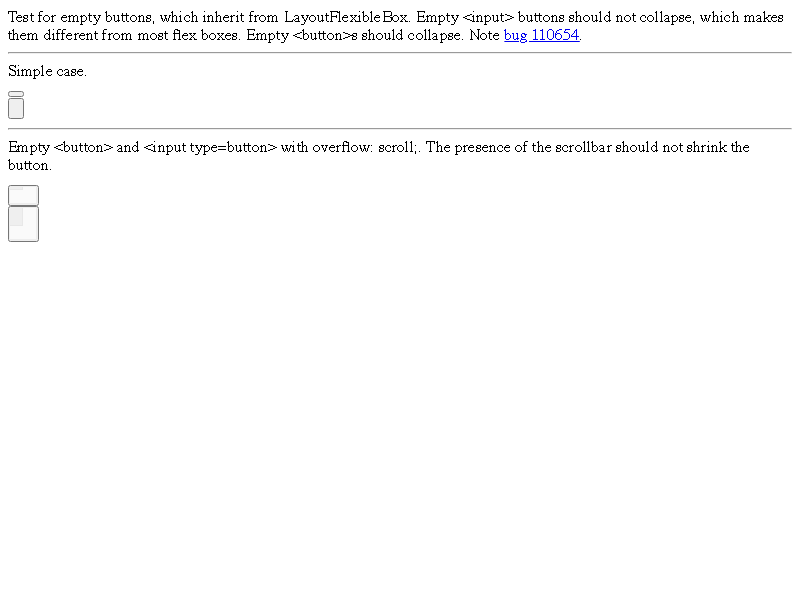
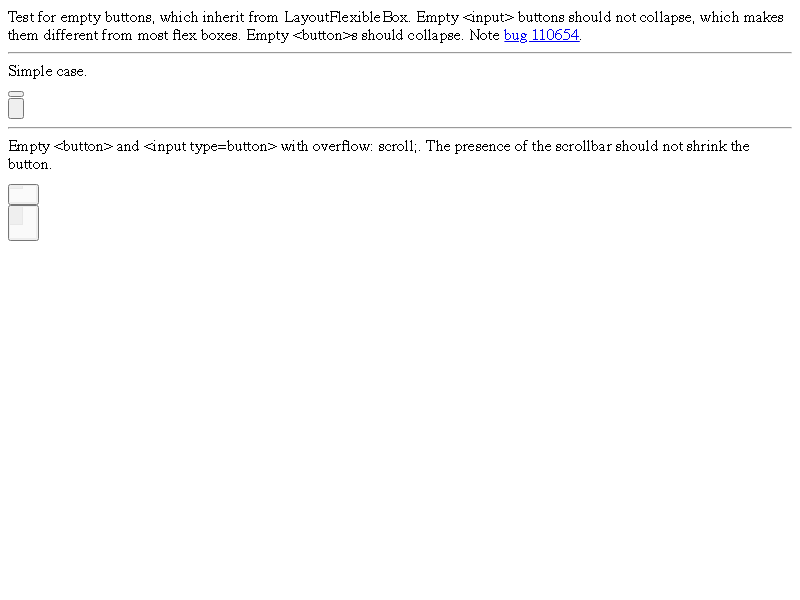
[layout] Enable block layout buttons.
This enables block layout buttons by default.

This fixes two WPT tests:
html/rendering/widgets/button-layout/anonymous-button-content-box.html
html/rendering/widgets/button-layout/inline-level.html

The control-clip rebaseline is due to the content not painting
atomically anymore (vs. flex-items which do).

Bug: 41458734, 40937312
Commit-Queue: Ian Kilpatrick <ikilpatrick@chromium.org>
Cr-Commit-Position: refs/heads/main@{#1294308}
NOKEYCHECK=True
GitOrigin-RevId: 1af2c612b83c35d5344eaf144a71be558164c0c4

Changed region(s): [[0.0, 0.21, 0.9688, 0.3]]

diff --git a/blink/web_tests/paint/invalidation/button-inner-no-repaint.html b/blink/web_tests/paint/invalidation/button-inner-no-repaint.html
@@ -13,4 +13,4 @@ button {
   height: 100px;
 }
 </style>
-<button>Should not repaint on style change that doesn't change visual.<br></button>
+<button><div>Should not repaint on style change that doesn't change visual.<br></div></button>
